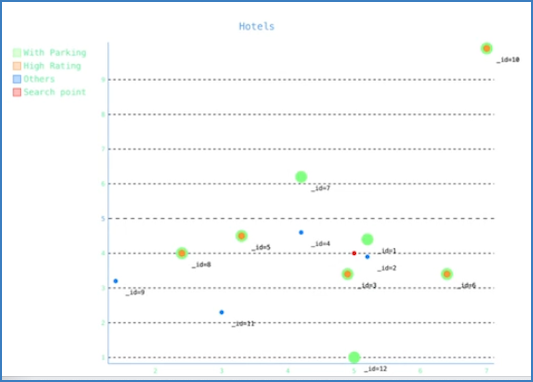
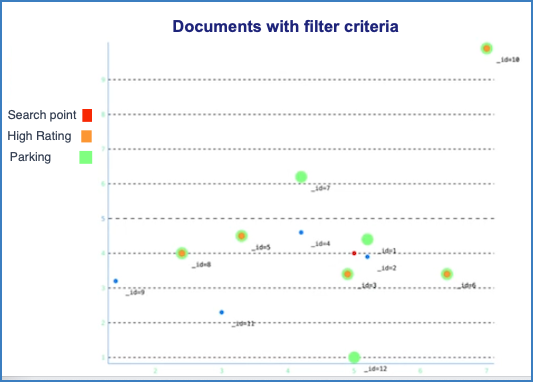
add graph of filtered doc set

diff --git a/_search-plugins/knn/filter-search-knn.md b/_search-plugins/knn/filter-search-knn.md
@@ -41,11 +41,11 @@ The workflow to search with a filter includes three steps:
 
 We use a range query to specify the hotels' feedback ratings, and a term query to require that parking is available. The criteria is processed with Boolean clauses to indicate whether or not the document contains the criteria.
 
-Consider an example search data set that contains 12 documents and an x-y coordinate point (4, 5) to represent the reference point to find nearest neighbor points.
+Consider a data set that contains 12 documents, a search reference point, and documents that meet two filter criteria.
 
-![Graph with data set and reference point]({{site.url}}{{site.baseurl}}/images/knn-two-filters.png)
+![Graph of documents with filter criteria]({{site.url}}{{site.baseurl}}/images/knn-two-filters.png)
 
-***Figure 1: Data set with filtered documents and a reference point***
+***Figure 1: Graph of documents that meet filter criteria***
 
 ### Step 1: Create a new index
 
